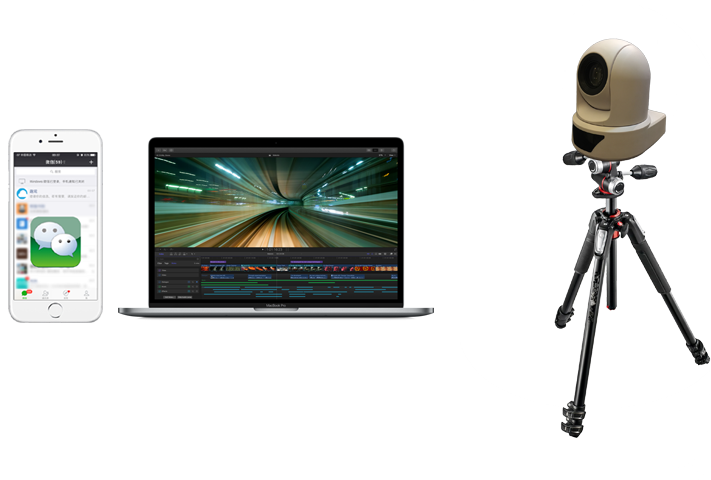
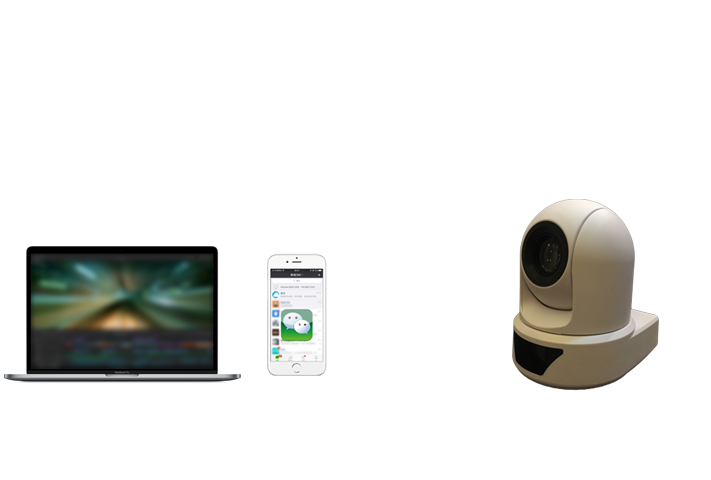
for live watch edit

diff --git a/weLive.html b/weLive.html
@@ -275,11 +275,10 @@
 </div>
 
 <div class="container ">
-  <div class="page-header" style="text-align:center">
-
-    <h2>如何使用微直播？</h2>
-
+  <div class="page-header" style="text-align:left">
+    <p>功能简介</p>
   </div>
+
   <div class="row">
 
     <div class="story-item image-on-right">
@@ -289,7 +288,20 @@
         <p>您不仅可以将创建的直播活动链接放在您的公众号菜单中，同时也可以在朋友圈和群组中分享活动链接，吸引更多的用户前来观看。</p>
       </div>
     </div>
-
+    <div class="story-item image-on-left">
+      <div class="story-image live_air"></div>
+      <div class="story-content">
+        <h2>实时观看</h2>
+        <p>通过H5实现的直播界面可对接各种手机和PC端的浏览器、以及微信客户端。架设在云端的服务可支持高并发请求，保证了大量观众同时观看时的直播效果。</p>
+      </div>
+    </div>
+    <div class="story-item image-on-right">
+      <div class="story-image live_op"></div>
+      <div class="story-content">
+        <h2>直播控制</h2>
+        <p>您可在微信和网页端控制直播的开启、暂停、重启、结束等操作。也可通过直播设备的专属控制器进行聚焦特写、放大、全景等操作，避免一镜到底的尴尬。</p>
+      </div>
+    </div>
     <div class="story-item image-on-left">
       <div class="story-image live_reply"></div>
       <div class="story-content">

diff --git a/css/main.css b/css/main.css
@@ -280,7 +280,14 @@ body{
     padding-top: 28%;
     background-image: url(../img/guiad/livein.png);
 }
-
+.story-image.live_air {
+    padding-top: 28%;
+    background-image: url(../img/guiad/liveair.png);
+}
+.story-image.live_op {
+     padding-top: 28%;
+     background-image: url(../img/guiad/liveop.png);
+ }
 .story-image.live_reply {
     padding-top: 28%;
     background-image: url(../img/guiad/livere.png);

diff --git a/weWatch.html b/weWatch.html
@@ -311,11 +311,10 @@
 </div>
 
 <div class="container ">
-  <div class="page-header" style="text-align:center">
-
-    <h2>如何使用微看店？</h2>
-
+  <div class="page-header" style="text-align:left">
+    <p>功能简介</p>
   </div>
+
   <div class="row">
 
     <div class="story-item image-on-right">
